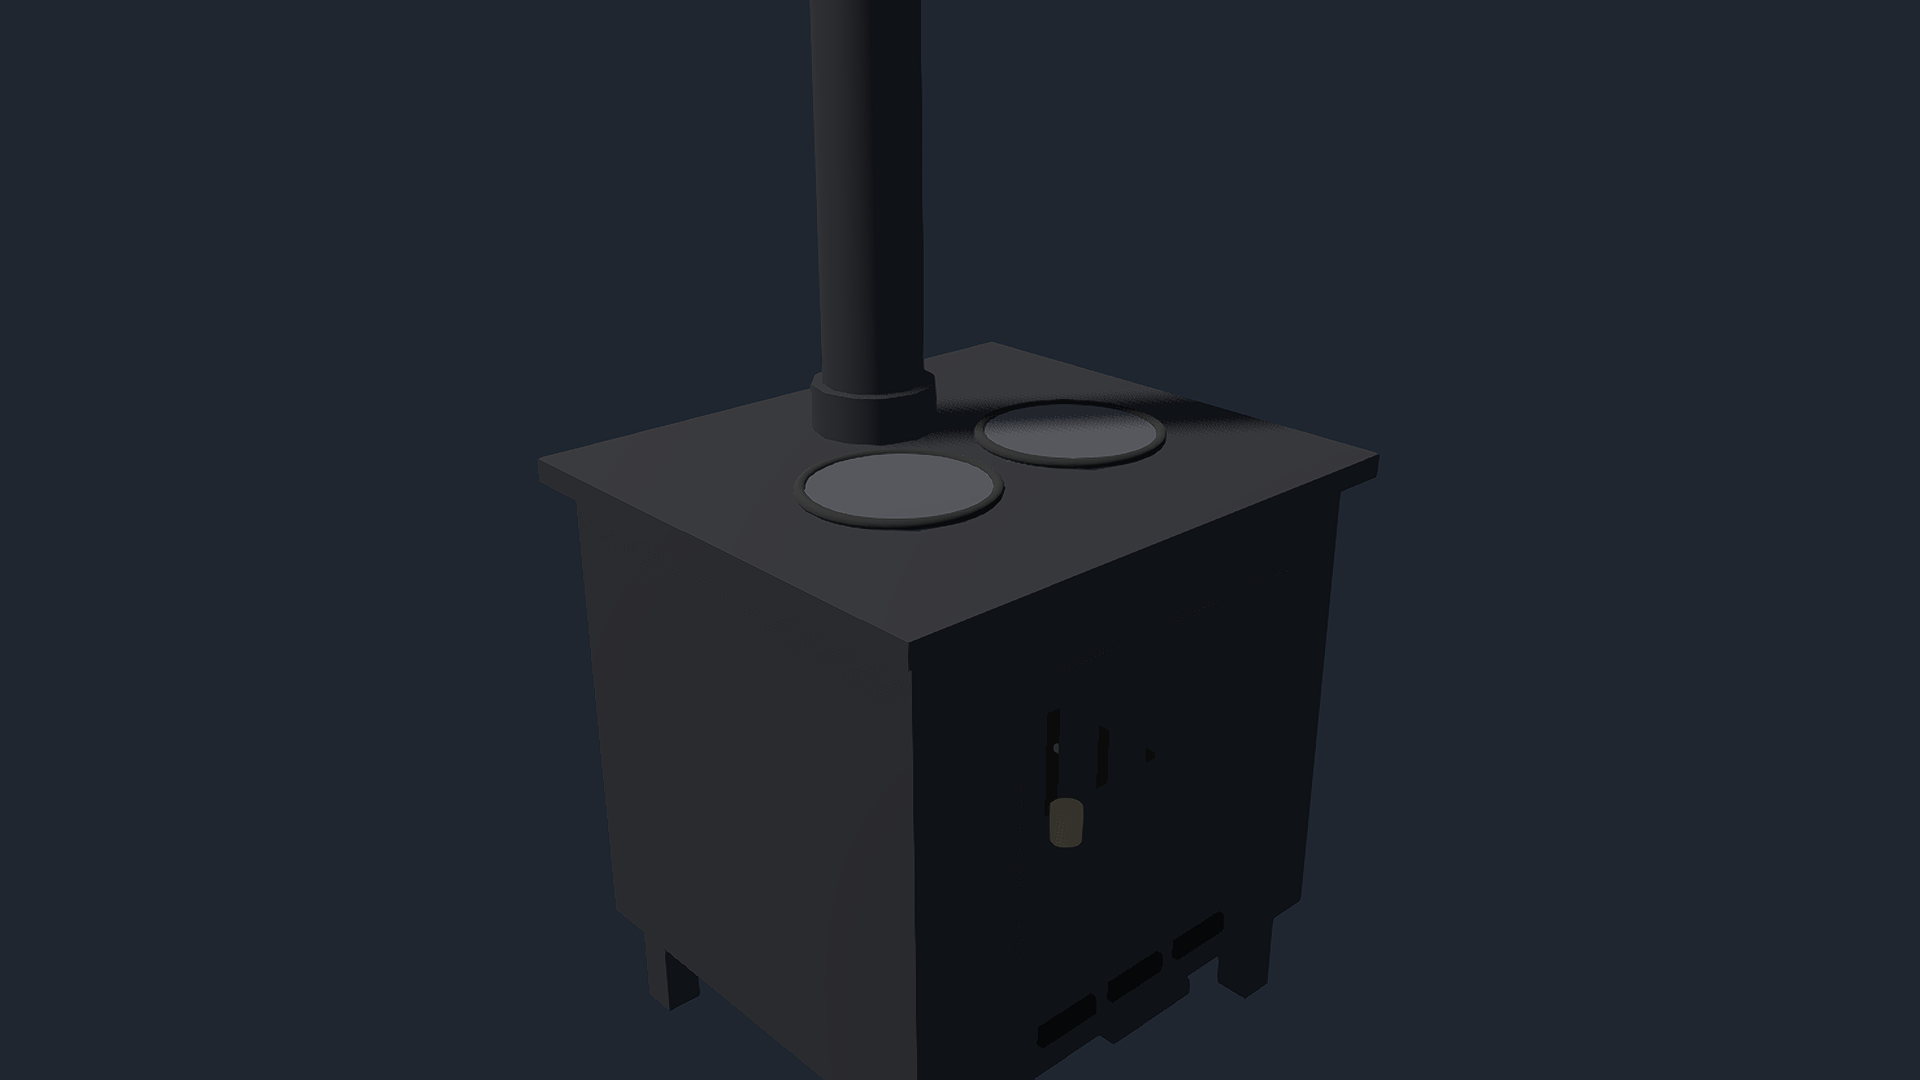
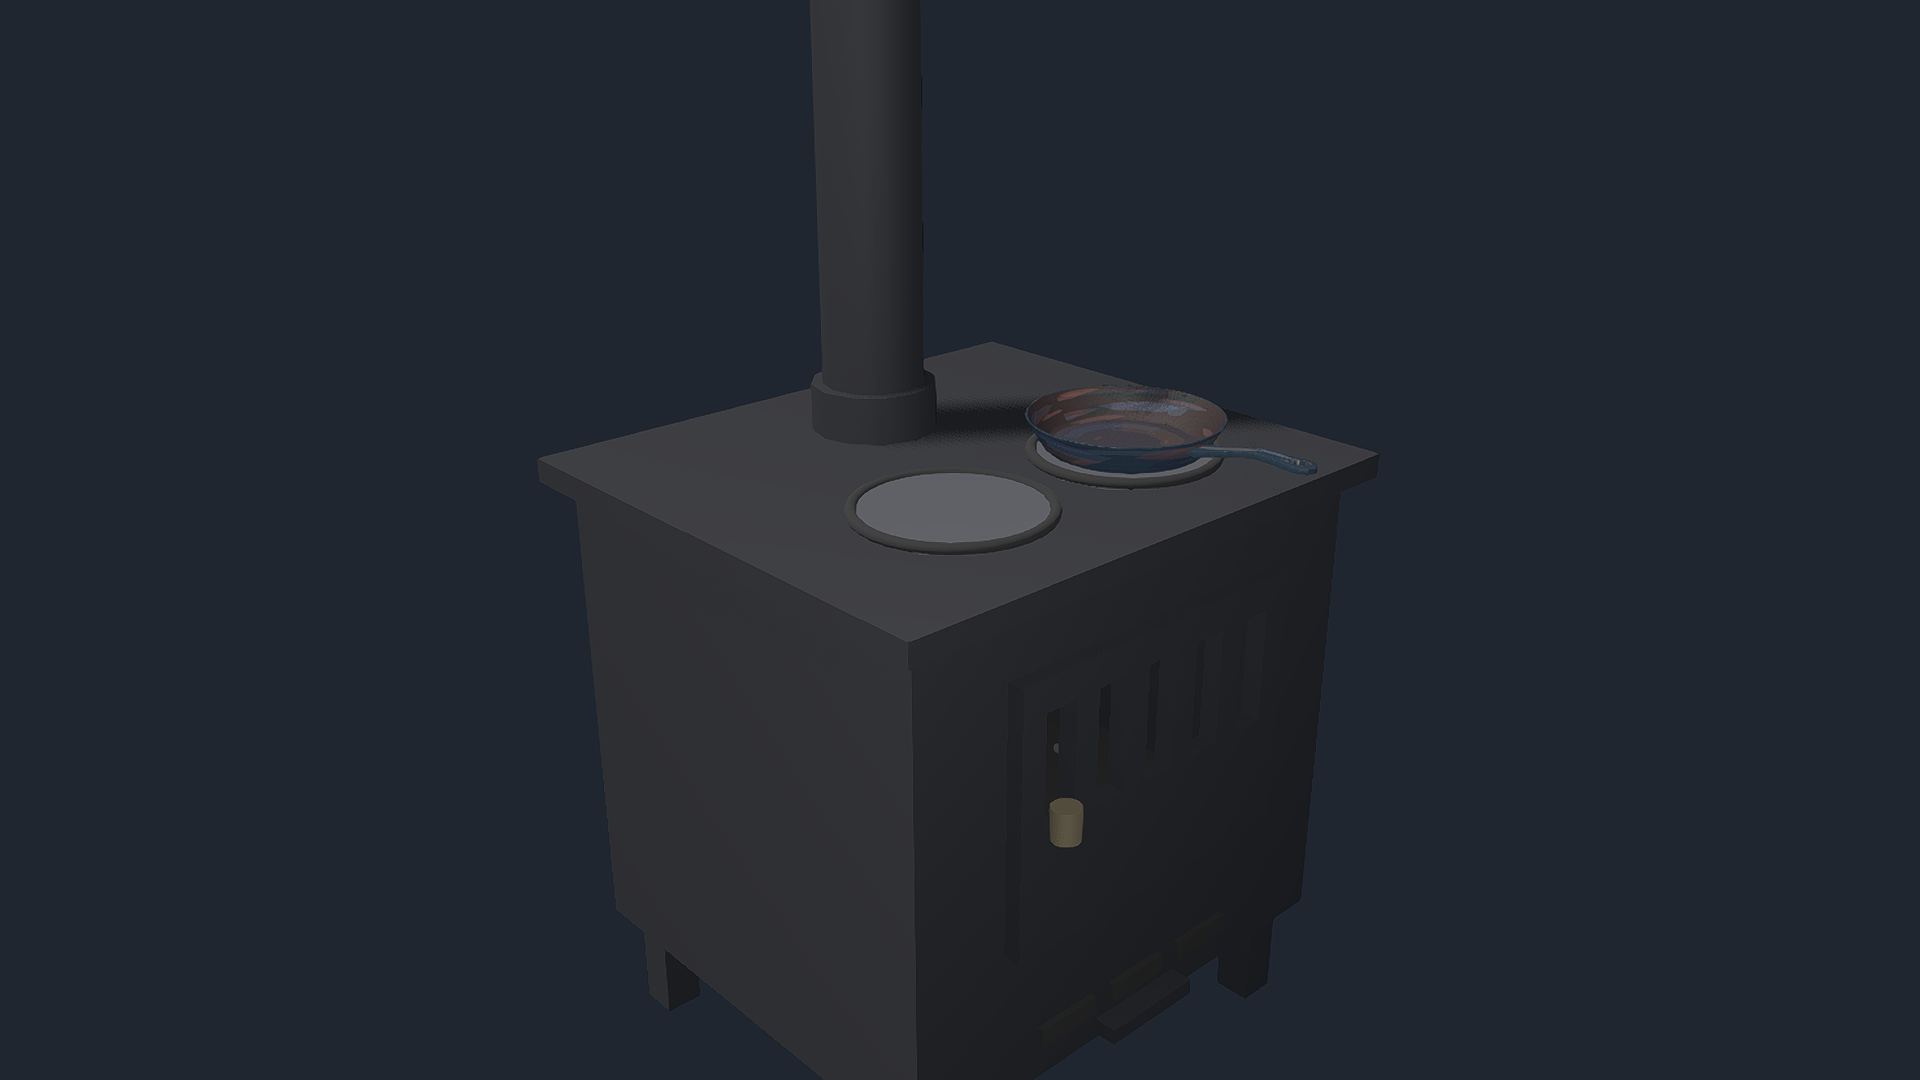
Move 727 cooktop plates forward and stage pan clearance review

diff --git a/docs/technical/STOVE_RITUAL.md b/docs/technical/STOVE_RITUAL.md
@@ -128,6 +128,11 @@ All geometry targets use the `StoveVisual` local frame and its world transform.
 The production visual root is 0.10 m below `HeatSource`; the fuel owner’s origin
 is not interchangeable with the geometry/contact frame.
 
+The two cooking plates sit toward Henry's near interaction edge of the stovetop,
+away from the rear flue. A frying pan on one plate points its handle toward Henry;
+the handle and pan body must leave the other plate clear for a second vessel.
+`Warmer` and `Warmer2` use matching positions and separate save keys.
+
 The tinder arc and action share the same accessibility predicate: an actual held
 item or a worn Quick Access pocket, excluding pack-only ownership. Contact spends
 exactly that source via `HeldOwnership`; it never silently falls back to the pack.
